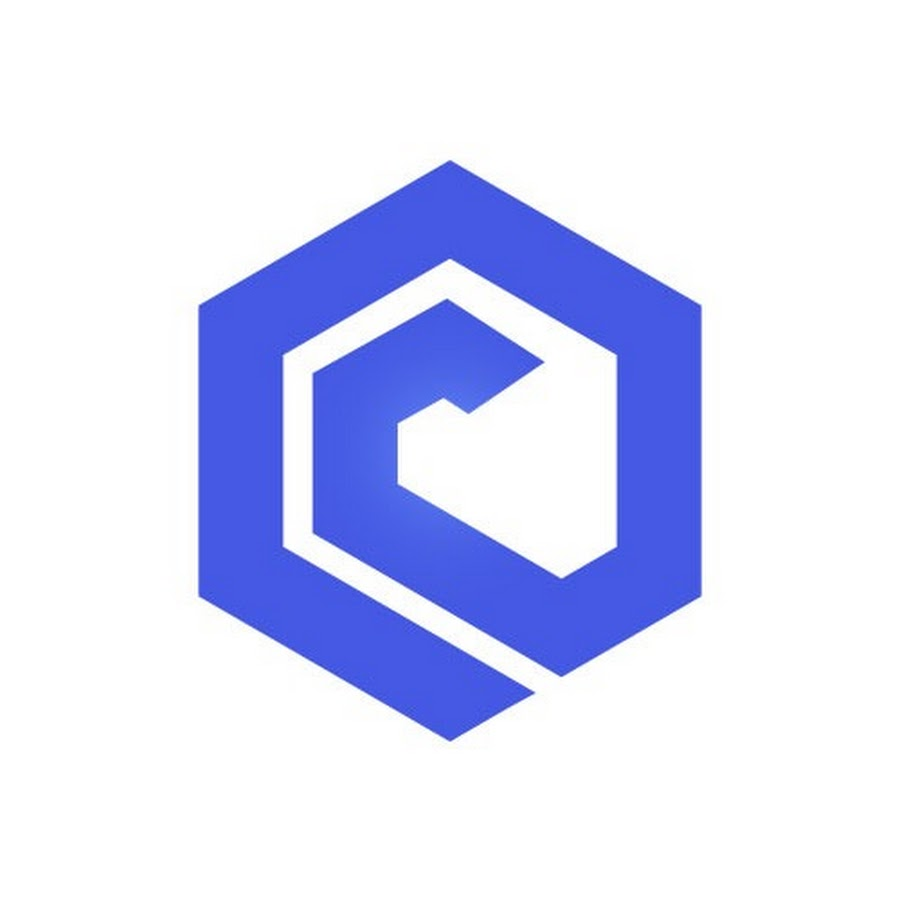
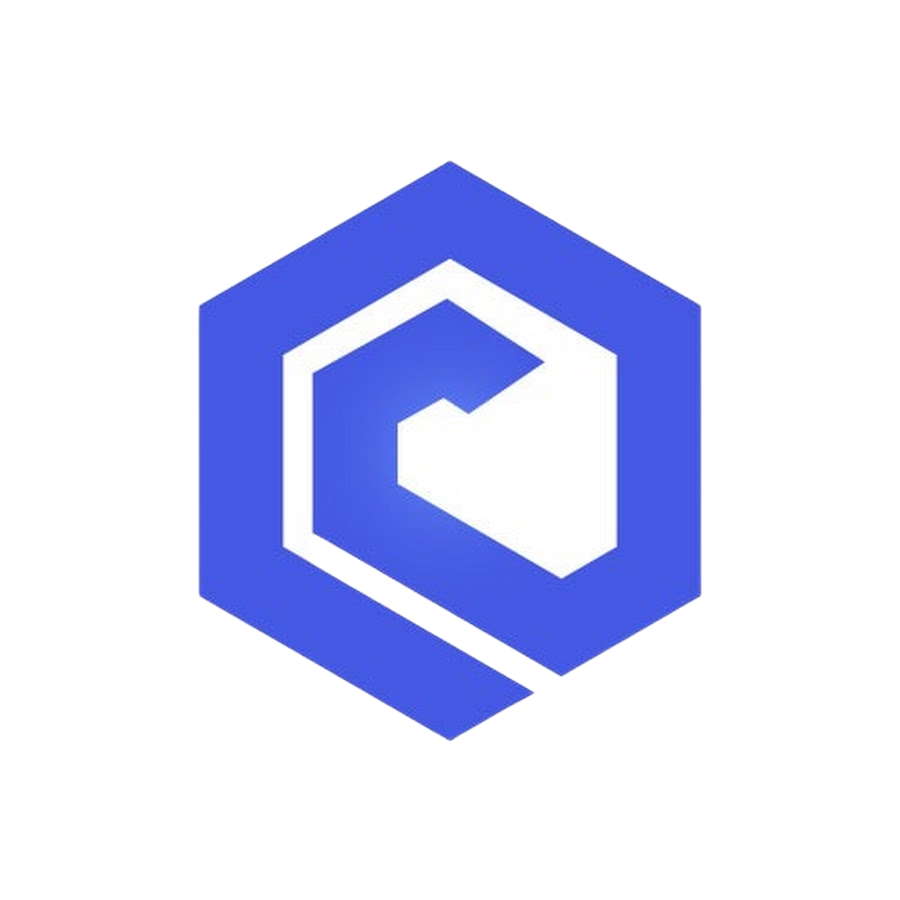
- About me page

diff --git a/lib/presentation/about-me/about_me_page.dart b/lib/presentation/about-me/about_me_page.dart
@@ -1,5 +1,6 @@
 import 'package:easy_localization/easy_localization.dart';
 import 'package:flutter/material.dart';
+import 'package:website_p/constants/image_path.dart';
 import 'package:website_p/presentation/about-me/widgets/richtext_body.dart';
 import 'package:website_p/widgets/expandable.dart';
 
@@ -69,7 +70,7 @@ final controller = ExpandableController();
               child: Container(
                 child: Row(
                   children: [
-                    Image.asset("name"),
+                    Image.asset(ImagePath.ronfic, height: 50),
                     Text(
                       "This is the collapsed state.",
                       softWrap: true,
